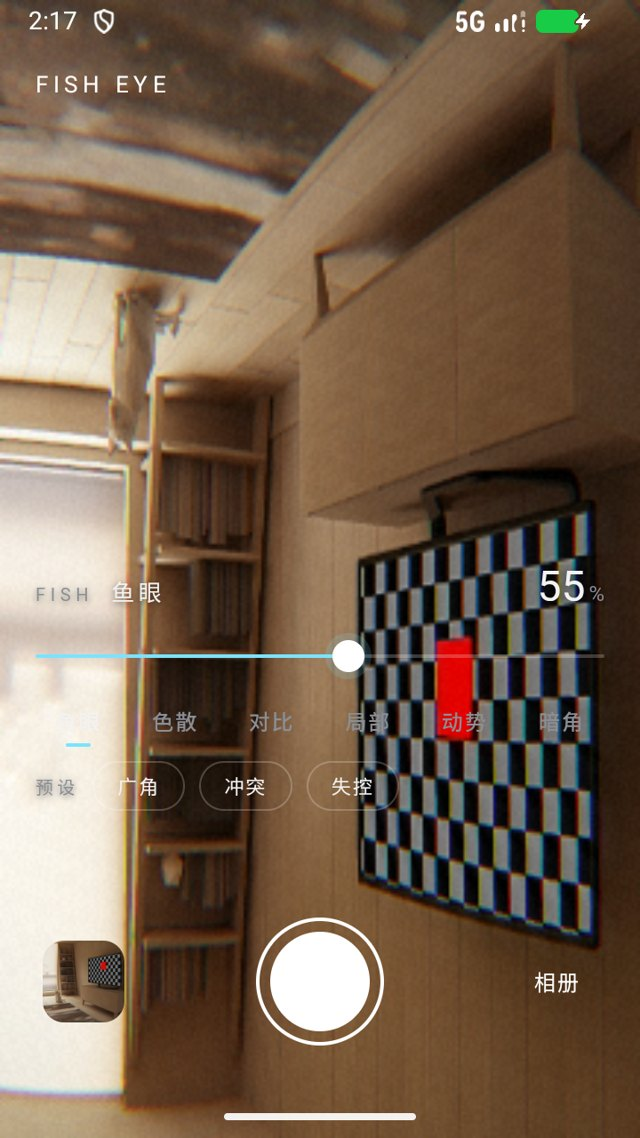
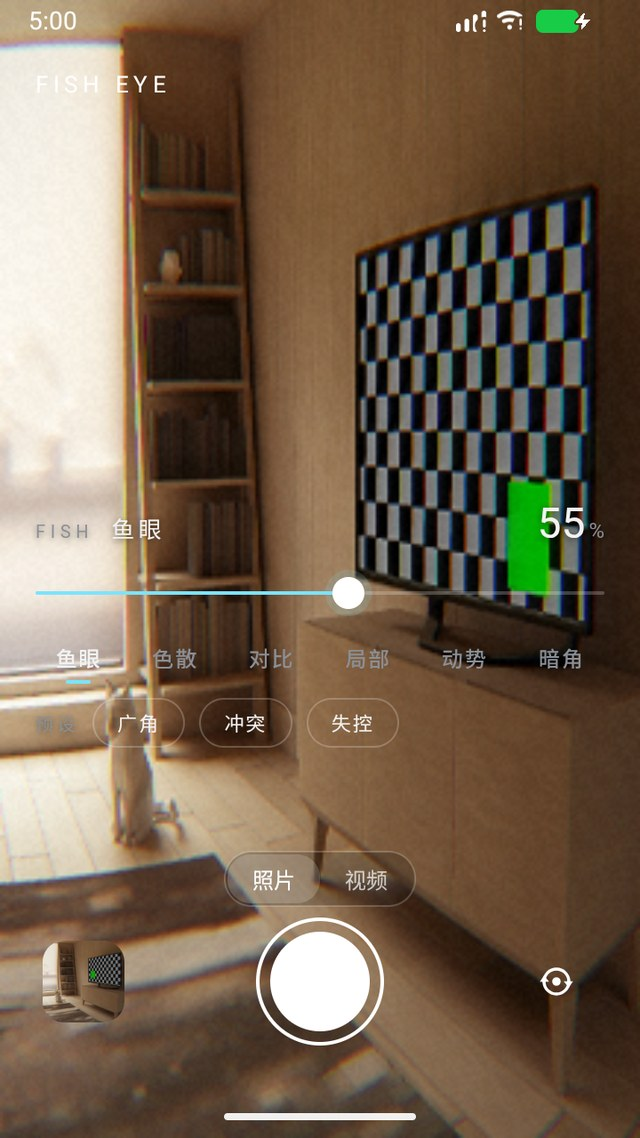
README 重写：补录像与播放器，换掉过期截图
- 说明改成当前实现：照片 / 录像共用一条管线，相册混列，内置播放器
- 截图换成实际界面四张（拍摄 / 录像 / 相册 / 播放），删掉已不存在的调色页
- 权限表补 RECORD_AUDIO 与 READ_MEDIA_VIDEO
- 录像失败给「没录到画面」这种人话（ERROR_NO_VALID_DATA = 慢设备首帧超时）

diff --git a/app/src/main/java/org/offblink/fisheye/CameraActivity.java b/app/src/main/java/org/offblink/fisheye/CameraActivity.java
@@ -682,7 +682,11 @@ public class CameraActivity extends AppCompatActivity {
                 if (out != null) {
                     AlbumStore.delete(this, out);
                 }
-                Ui.toast(this, "录像失败（" + f.getError() + "）");
+                // 8 = ERROR_NO_VALID_DATA：相机还没吐帧就超时了（慢设备首次启动常见），
+                // 让用户再点一次比甩一串错误码有用
+                Ui.toast(this, f.getError() == VideoRecordEvent.Finalize.ERROR_NO_VALID_DATA
+                        ? "这段没录到画面（相机还没出帧），再点一次快门"
+                        : "录像失败（" + f.getError() + "）");
             } else {
                 AlbumStore.videoFinalize(this, out);
                 refreshThumb();

diff --git a/README.md b/README.md
@@ -1,111 +1,118 @@
 # FishEye
 
-给 Android 的极简「张力」相机：**取景时就把画面推成鱼眼、加色散、压影调**，按下快门存下来的就是眼前看到的样子。
+给 Android 的极简「张力」相机：**取景时就把画面推成鱼眼、加色散、压影调**，按下快门存下来的就是眼前看到的样子。录像同理，只是把同一套着色器接到了编码器上。
 
 A minimal Android camera that renders a tension pipeline live in the viewfinder.
 
 <p align="center">
-  <img src="docs/screenshots/camera.jpg" width="230" alt="拍摄页" />
-  <img src="docs/screenshots/editor.jpg" width="230" alt="调色页" />
-  <img src="docs/screenshots/gallery.jpg" width="230" alt="相册" />
+  <img src="docs/screenshots/camera.jpg" width="200" alt="拍摄" />
+  <img src="docs/screenshots/video.jpg" width="200" alt="录像" />
+  <img src="docs/screenshots/gallery.jpg" width="200" alt="相册" />
+  <img src="docs/screenshots/player.jpg" width="200" alt="播放" />
 </p>
 
 ## 它解决哪件事
 
-鱼眼、色散、径向模糊这些东西，传统上都是拍完再进修图软件拧。问题是——**你没法一边拧一边看**：画面一变，你就不确定该往哪儿站、往哪儿压。
+鱼眼、色散、径向模糊传统上都是拍完再修。问题是**你没法一边拧一边看**：画面一变，你就不确定该往哪儿站、该把什么推进画面。
 
-FishEye 把整条管线搬到取景时。面板上六个滑块拖到哪，取景就变成什么样；按快门时，同一张照片用**同一套 GLSL** 在离屏再渲染一遍存盘。预览什么样，存下来就是什么样。
+FishEye 把整条管线搬到取景时。六个滑块拖到哪，取景就是什么样；快门按下时，同一张照片用**同一份 GLSL** 在离屏再渲一遍再存盘。录像也一样——处理器直接插在相机与编码器之间，录下来的帧和取景框里是同一条管线。参数不会因为拍完而复位，可以边拍边调。
 
 ## 怎么用
 
 | 动作 | 结果 |
 | --- | --- |
-| 拖底部滑块 | 实时改当前那一项；六个页签切换要调的项（鱼眼 / 色散 / 对比 / 局部 / 动势 / 暗角） |
+| 拖底部滑块 | 实时改当前那一项；六个页签切换（鱼眼 / 色散 / 对比 / 局部 / 动势 / 暗角） |
 | 点 `广角` `冲突` `失控` | 三套预设，越往后越「失控」 |
-| 点取景任意处 | 那里对焦测光，**同时把径向模糊的中心挪过去**（对焦框亮一下） |
-| 按快门 | 渲染后存进 `Pictures/FishEye`，留在取景继续拍（参数不复位） |
-| 点左下缩略图 | 进相册（三列网格）；单击看大图（从格子位置放大进入） |
-| 相册里长按 | 进选择模式，按住涂抹＝按一列照片的顺序连选；右上「删除」 |
-| 右下的 `翻转` | 前后摄切换 |
-| 调色页 `保存` | 另存为新照片 / 覆盖原图 |
+| 点取景任意处 | 那里对焦测光，**径向模糊的中心跟着挪过去** |
+| 点 `照片 / 视频` | 换拍摄模式；视频模式取景切到 16:9，和录出来的画面一致 |
+| 点快门（照片） | 渲染后存进 `Pictures/FishEye`，留在取景继续拍 |
+| 点快门（视频） | 开始录像，快门变红方块、右上角计时；再点结束，存进 `Movies/FishEye` |
+| 点左下缩略图 | 进相册（从缩略图位置放大进入） |
+| 相册单击 / 长按 | 看照片、放录像 / 进选择模式，按住涂抹＝按序列连选，右上「删除」 |
+| 右下图标 | 前后摄切换 |
 
-取景亮度会让界面文字自动反色：底部暗配浅字、底部亮配深字，不在画面上盖任何色块。
+界面不用系统弹窗和 Toast，提示条、确认框、播放控件都是自绘的；取景亮度变了，文字会自动反色。
 
-## 它怎么做到的
-
-取景不是 `PreviewView` 直出，而是自己接管相机：
+## 管线
 
 ```
-CameraX Preview ──SurfaceTexture(外部纹理)──> GL 线程
-                                              │
-                        pass 1  鱼眼变形 → 色散 → 曝光 → 局部对比 → S 曲线 → 饱和
-                                              │
-                        pass 2  径向缩放模糊 → 暗角 → 颗粒
-                                              │
-                                   eglSwapBuffers → SurfaceView
+相机 ──SurfaceTexture（外部纹理）──> GL 线程
+                                    pass 1  鱼眼 → 色散 → 曝光 → 局部对比 → S 曲线 → 饱和
+                                    pass 2  径向缩放模糊 → 暗角 → 颗粒
+                                      ├─ 取景：eglSwapBuffers → SurfaceView
+                                      ├─ 照片：离屏 FBO → glReadPixels → JPEG
+                                      └─ 录像：SurfaceProcessor → 编码器输入 Surface
 ```
 
-- **预览零 CPU 回读**：全程在显存里过。唯一的回读是每 500ms 取一张 16×16 缩图，只看屏幕下三分之一（控件文字压着的那一带）算亮度，用来反色。
-- **成片走同一条管线**：快门后把 JPEG 解成 Bitmap，交给**同一个** `GlPreviewView` 在离屏 FBO 上跑同样的两趟 shader，再 `glReadPixels` 回 Bitmap 存盘。两边的 GLSL 是同一份字符串。
-- **朝向听设备的**：取景的上下/旋转来自 `SurfaceTexture.getTransformMatrix()`，不再自己算——真机与模拟器的 buffer 约定不同，自己算必翻。成片那侧仍是 CPU 按 EXIF 摆正 + 纯 2D 采样。
-- **方向在 CPU 侧摆正**：EXIF 角度先用 `Matrix` 转到位，GL 只做纯 2D 采样。否则「竖翻 + 旋转」会复合成反射，拍出来左右镜像（这个坑实测踩过）。
-- **参数平滑**：滑块值不直接进 shader，每帧向目标靠 22%，拖过去是「滑」过去的，模糊中心与色散都不跳帧。
-- **鱼眼连续可退化**：`r_src = tan(r·k)/tan(rmax·k)·rmax`，k→0 时退化成线性直出，所以强度从 0 拖到 100 没有跳变点。
-- **失败要说出来**：EGL 配置/上下文/窗口表面建不起来、着色器编译失败、8 秒没有一帧，都会在屏幕上弹一条原因，而不是留一片黑。
-- **慢设备自动降级**：连续 8 帧平均超过 70ms 就把预览缓冲区缩到 0.55×（最多三次），合成器负责放大，画面比例不变；成片不受影响。
+- 取景零 CPU 回读：全程在显存里过。唯一的回读是每 500ms 一张 16×16 缩图，只看控件文字压着的那一带，用来决定界面明暗。
+- 三条通路共用一份实现：`TensionRenderer`（GL 程序与两趟渲染）+ `Shaders`（GLSL 源码字符串）。
+- 朝向听设备的：`SurfaceTexture.getTransformMatrix()` × CameraX 的 `updateTransformMatrix`，不自己推 sensor 角度；照片是 CPU 按 EXIF 摆正后做纯 2D 采样。
+- 参数逐帧平滑（每帧向目标靠 22%），拖滑块是「滑」过去的，模糊中心和色散都不跳。
+- 鱼眼连续可退化：`r_src = tan(r·k)/tan(rmax·k)·rmax`，k→0 退化成线性，强度从 0 拖到 100 没有跳变点。
+- 出错要说出来：EGL、着色器编译、8 秒没有一帧，都会在屏幕上给原因，不留黑屏。
+- 慢设备自动降级：连续 8 帧平均超过 70ms，就把预览缓冲缩到 0.55×（最多三次），画面比例不变。
+
+### 录像怎么接的
+
+`CameraEffect` 只挂 `VIDEO_CAPTURE`，取景那条链路一行没动。`VideoProcessor` 是个 `SurfaceProcessor`，自己开一个 EGL 上下文，把同一套两趟着色器渲进 `Recorder` 的输入 Surface；声音与封装交给 CameraX。
 
 ## 构建
 
-需要 JDK 17+ 和 Android SDK（`compileSdk 37`）。
+需要 JDK 17+ 与 Android SDK（compileSdk 37，minSdk 26）。
 
 ```bash
-git clone <repo>
+git clone https://github.com/Offblink/FishEye.git
 cd FishEye
 sh ./gradlew assembleDebug        # Windows 的 git-bash；cmd 下用 gradlew.bat
 ```
 
 产物在 `app/build/outputs/apk/debug/app-debug.apk`。
 
-> 本机在墙内，`gradle.properties` 里带了 Clash（127.0.0.1:7897）的代理设置；换机器或关代理时删掉那四行 `systemProp.*`。
-
-## 实测结论
-
-在 `Small_Phone`（x86_64，720×1280，API 37，SwiftShader 软件渲染）上验过：
-
-- 取景实时出画，鱼眼 / 色散 / 暗角 / 颗粒全部生效；软件渲染下约 2–3 fps，自适应降级后明显变顺。
-- 快门 → `Pictures/FishEye` 出 960×1280 JPEG，方向正确、不镜像，取景里看到的调色与成片一致。
-- 相册能列出、能进调色页；调色页另存会在相册里多出一张。
-- 取景反色：底部亮度越阈值时界面文字切深色，回落时切回浅色。
-
-真机（有真 GPU 的机器）未验。
+> `gradle.properties` 里带了 Clash（127.0.0.1:7897）的四行代理设置，换机器或不用代理时删掉。
 
 ## 权限
 
 | 权限 | 用途 |
 | --- | --- |
-| `CAMERA` | 取景与拍照 |
-| `READ_MEDIA_IMAGES`（Android 13+）<br>`READ_EXTERNAL_STORAGE`（Android 12 及以下） | 相册列表与缩略图 |
-| `WRITE_EXTERNAL_STORAGE`（Android 9 及以下） | 老系统写入 `Pictures/FishEye` |
+| `CAMERA` | 取景、拍照、录像 |
+| `RECORD_AUDIO` | 录像带声音；拒绝时自动降级为无声录像 |
+| `READ_MEDIA_IMAGES` / `READ_MEDIA_VIDEO`（Android 13+）<br>`READ_EXTERNAL_STORAGE`（Android 12 及以下） | 相册列表与缩略图 |
+| `WRITE_EXTERNAL_STORAGE`（Android 9 及以下） | 老系统写入相册目录 |
+
+## 验证到哪一步
+
+在模拟器（x86_64 / 720×1280 / API 37 / SwiftShader 软件渲染）上跑通：
+
+- 取景实时出画，鱼眼、色散、暗角、颗粒全部生效；软件渲染下约 2–3 fps，降级后顺畅。
+- 快门 → `Pictures/FishEye` 出 JPEG，方向正确、不镜像，取景里的调色与成片一致。
+- 录像 → `Movies/FishEye` 出 720×1280 H.264，帧里带着同一条管线，有音轨。
+- 相册照片与录像混列（录像带时长角标）、涂抹多选、自绘删除确认、缩放切页。
+- 内置播放器：播放/暂停、拖进度条即时显示对应位置的帧。
+
+真机还没验：录像质量档与「预览 + 拍照 + 录像」三路并发能力、AAC 音画对齐、前摄镜像。
 
 ## 它做不到的
 
-- 只有后摄；没有前摄、闪光灯、变焦——刻意做窄。
-- 照片只进 `Pictures/FishEye`。
-- 成片先解码再重新编码，所以是「一次 JPEG 往返」；要无损得改成 GL 直出捕获。
+- 没有闪光灯、变焦、手动曝光；录像质量档跟着设备能力走。
+- 成片是「一次 JPEG 往返」（解码 → 重新渲染 → 编码），不是无损。
+- 播放器只放本应用拍的片子。
 
 ## 代码结构
 
 | 文件 | 职责 |
 | --- | --- |
-| `CameraActivity` | 取景、实时管线、快门、缩略图、明暗自适应主题 |
-| `GlPreviewView` | 自己的取景器：EGL + SurfaceTexture + 两趟 shader + 离屏烘焙 + 慢设备降级 |
-| `Shaders` | 全部 GLSL（预览与成片共用同一份） |
+| `CameraActivity` | 取景页：权限、相机绑定、快门 / 录像、明暗自适应主题、前后摄切换 |
+| `GlPreviewView` | 取景器：EGL + SurfaceTexture + 两趟着色器 + 离屏烘焙 + 慢设备降级 |
+| `TensionRenderer` | 管线本体：程序、四边形、中间 FBO，取景 / 录像 / 烘焙共用 |
+| `Shaders` | 全部 GLSL（三条通路同一份） |
 | `Params` | 参数、UI 百分比换算、三套预设、逐帧平滑 |
-| `PhotoActivity` | 只读大图预览；进出用 Prism 那套缩放切页 |
-| `GalleryActivity` + `PhotoAdapter` | 相册：三列网格、涂抹多选、自绘确认框 |
-| `Ui` | 自绘提示条/确认框/缩放切页，不用任何系统弹窗 |
-| `AlbumStore` | MediaStore 的唯一出入口 |
-| `assets/controls.html` `controls.css` | 滑块面板，拍摄页与调色页共用一套 |
+| `VideoProcessor` | 录像支路：`SurfaceProcessor` + 独立 EGL 上下文 |
+| `VideoActivity` + `ScrubBar` + `PlayPauseView` | 自绘播放器：进度条、播放键、拖动即时出帧 |
+| `PhotoActivity` | 只读大图预览，进出用缩放切页 |
+| `GalleryActivity` + `PhotoAdapter` | 相册：三列网格、涂抹多选、录像角标 |
+| `Ui` | 自绘提示条、确认框、缩放切页 |
+| `AlbumStore` | MediaStore 的唯一出入口（照片 + 录像） |
+| `assets/controls.html` `controls.css` | 滑块面板 |
 
 ## 许可
 
